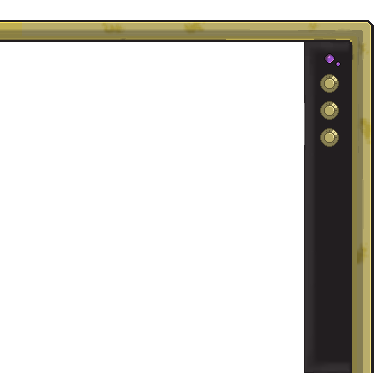
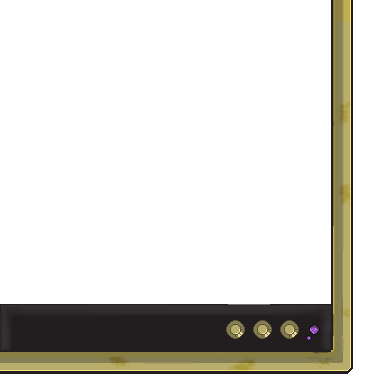
top menu

diff --git a/js/Minimap.js b/js/Minimap.js
@@ -2,9 +2,9 @@ class Minimap {
     static borderPadding = 0;
     static halfBorder = Minimap.borderPadding / 2;
     static positionX = 0 + Minimap.halfBorder;
-    static positionXEnd = 300 + Minimap.halfBorder;
-    static positionY = 600 - Minimap.halfBorder;
-    static positionYEnd = 900 - Minimap.halfBorder;
+    static positionXEnd = 328 + Minimap.halfBorder;
+    static positionY = 0 - Minimap.halfBorder;
+    static positionYEnd = 300 - Minimap.halfBorder;
 
     constructor() {
         this.worldX = 0 + Minimap.halfBorder;
@@ -127,8 +127,8 @@ class Minimap {
         );
         image(
             GUI.visuals.mapFrame,
-            Minimap.positionX - 4,
-            Minimap.positionY - 42
+            Minimap.positionX - 26,
+            Minimap.positionY - 3
         );
         pop();
     }

diff --git a/js/Gui.js b/js/Gui.js
@@ -13,8 +13,9 @@ class GUI {
         H:20
     }
 
-    constructor() {
+    constructor(menu) {
         this.minimap = new Minimap();
+        this.menu=menu;
         this.visuals={}
     }
 
@@ -57,7 +58,7 @@ class GUI {
     }
 
     superDraw(data) {
-        image(GUI.visuals.topFrame,-1,-10);
+        image(GUI.visuals.topFrame,this.minimap.width-8,-10);
         this.minimap.draw(data);
     }
 

diff --git a/js/main.js b/js/main.js
@@ -4,8 +4,9 @@ const SCREEN_WIDTH = 1600;
 const SCREEN_HEIGHT = 900;
 
 const data = new Data();
-const menu = new Menu(0);
 const gui = new GUI();
+const menu = new Menu(gui.minimap.width-3);
+gui.menu=menu;
 
 var prevTime = 0;
 
